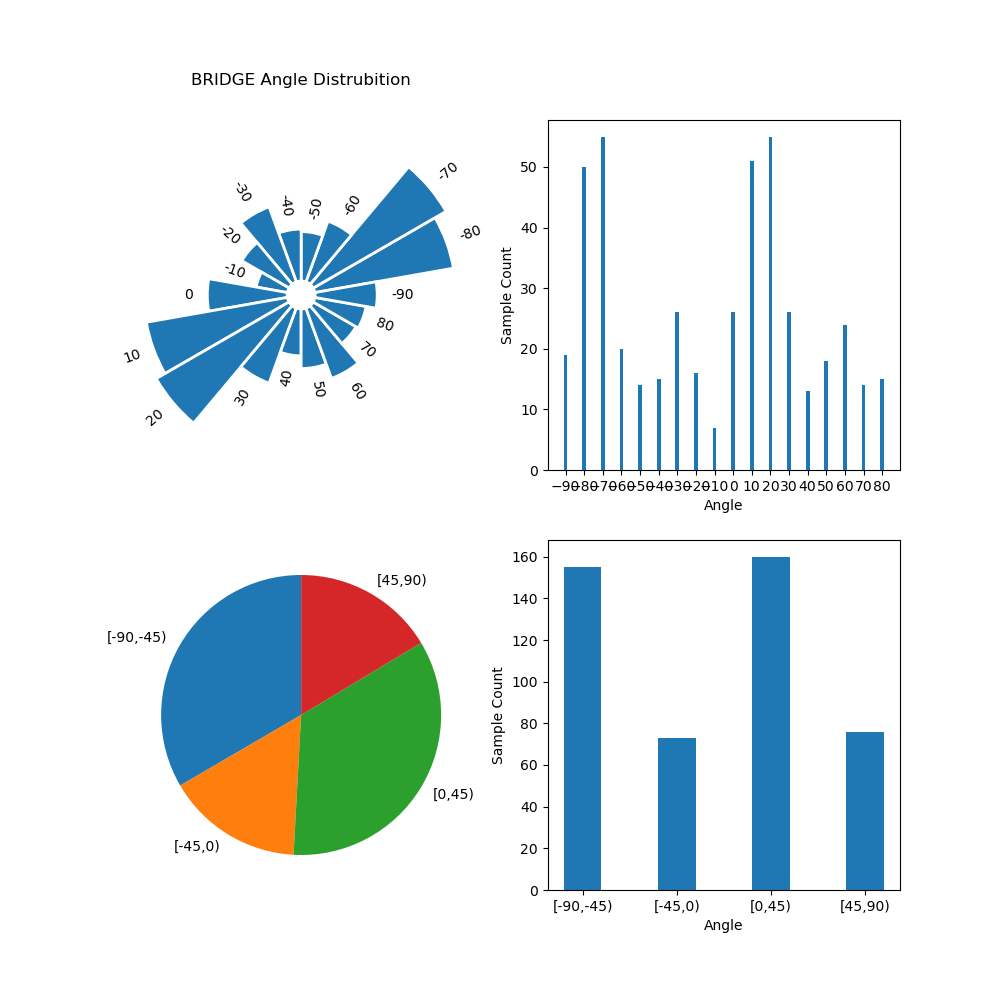
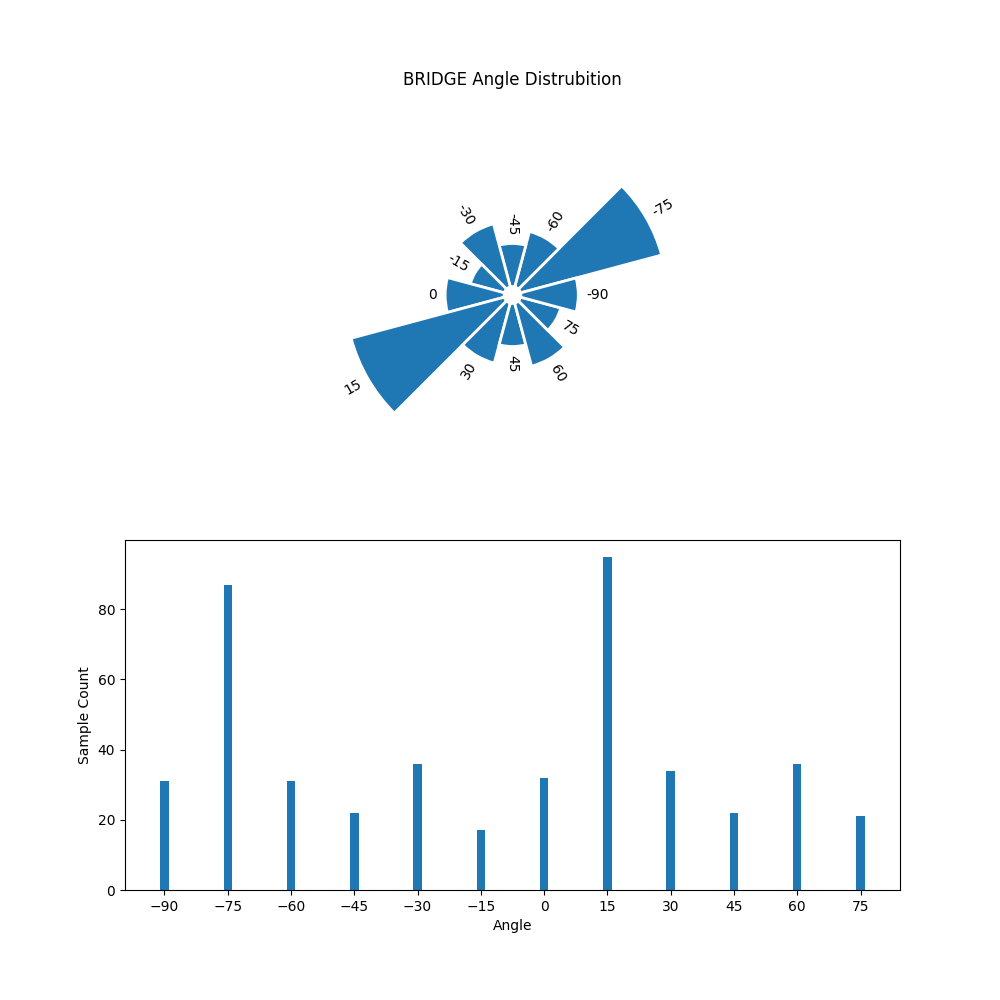
figures updated

diff --git a/src/PreparePlotGT.py b/src/PreparePlotGT.py
@@ -77,7 +77,7 @@ def drawPieChart(df,index,title=""):
     cx = plt.subplot(index)
     cx.pie(count, labels = name, startangle = 90)
 
-data = loadRotatedAP("test_data\gt_angle.pickle")
+data = loadRotatedAP("test_data/gt_angle_15degreeInterval.pickle")
 data["all"] = AngleGroup()
 
 clsList = data.keys()
@@ -92,7 +92,7 @@ for cls in clsList:
     for item in data["all"].angle.keys():
         data["all"].angle[item] += data[cls].angle[item] 
 
-angleList = [angle for angle in range(-90,90,10)] 
+angleList = [angle for angle in range(-90,90,15)] 
 first = angleList.pop(0)
 angleList.append(first)
 
@@ -105,13 +105,15 @@ for cls in clsList:
         
     df = pd.DataFrame(content)
     plt.figure(figsize=(10,10))
-    drawCircularBarPlot(df,221,cls.upper() +" Angle Distrubition" )
-    drawBarPlot(df,222)
+    drawCircularBarPlot(df,211,cls.upper() +" Angle Distrubition" )
+    drawBarPlot(df,212)
 
+    '''
     content = {"Name":["[-90,-45)","[-45,0)","[0,45)","[45,90)"],
                "Value":data[cls].gt}
     df = pd.DataFrame(content)
-    drawPieChart(df,223)
+    drawPieChart(df,223) ## SINAN HOCA FeedBack GEREK YOK 
     drawBarPlot(df,224,width=0.4)
+    '''
 
     plt.savefig("figures/gtDist/{}.png".format(cls))
